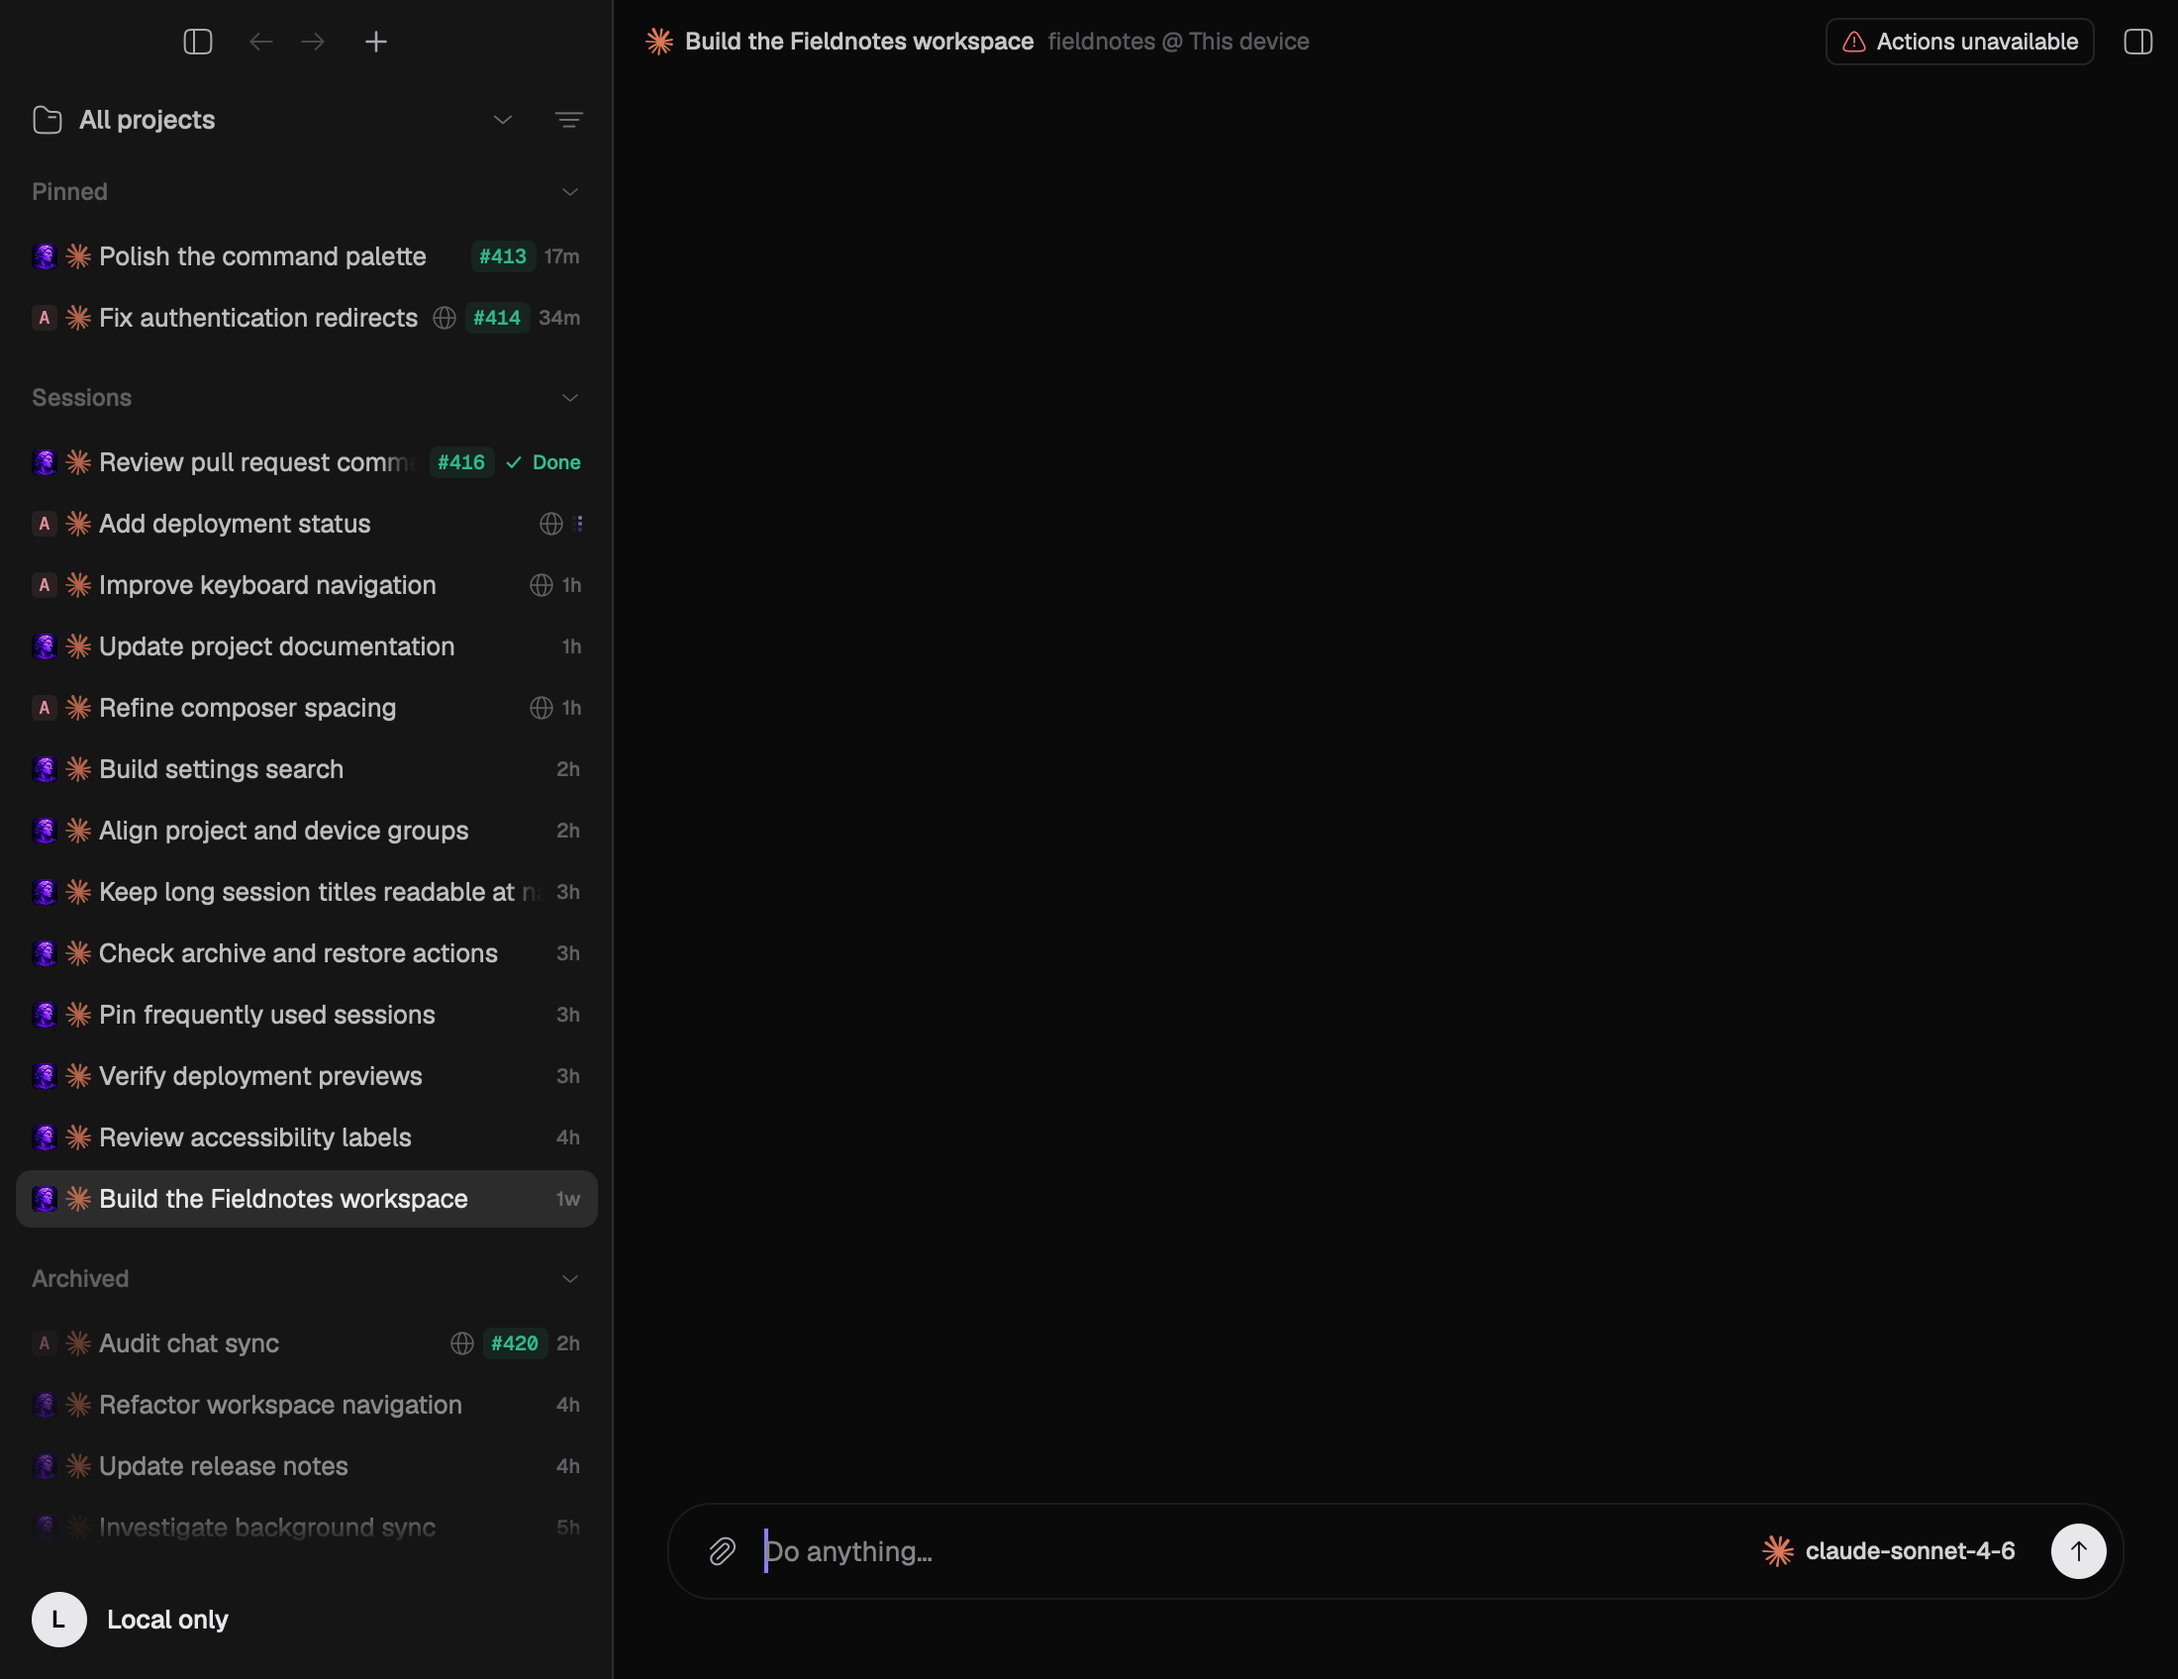
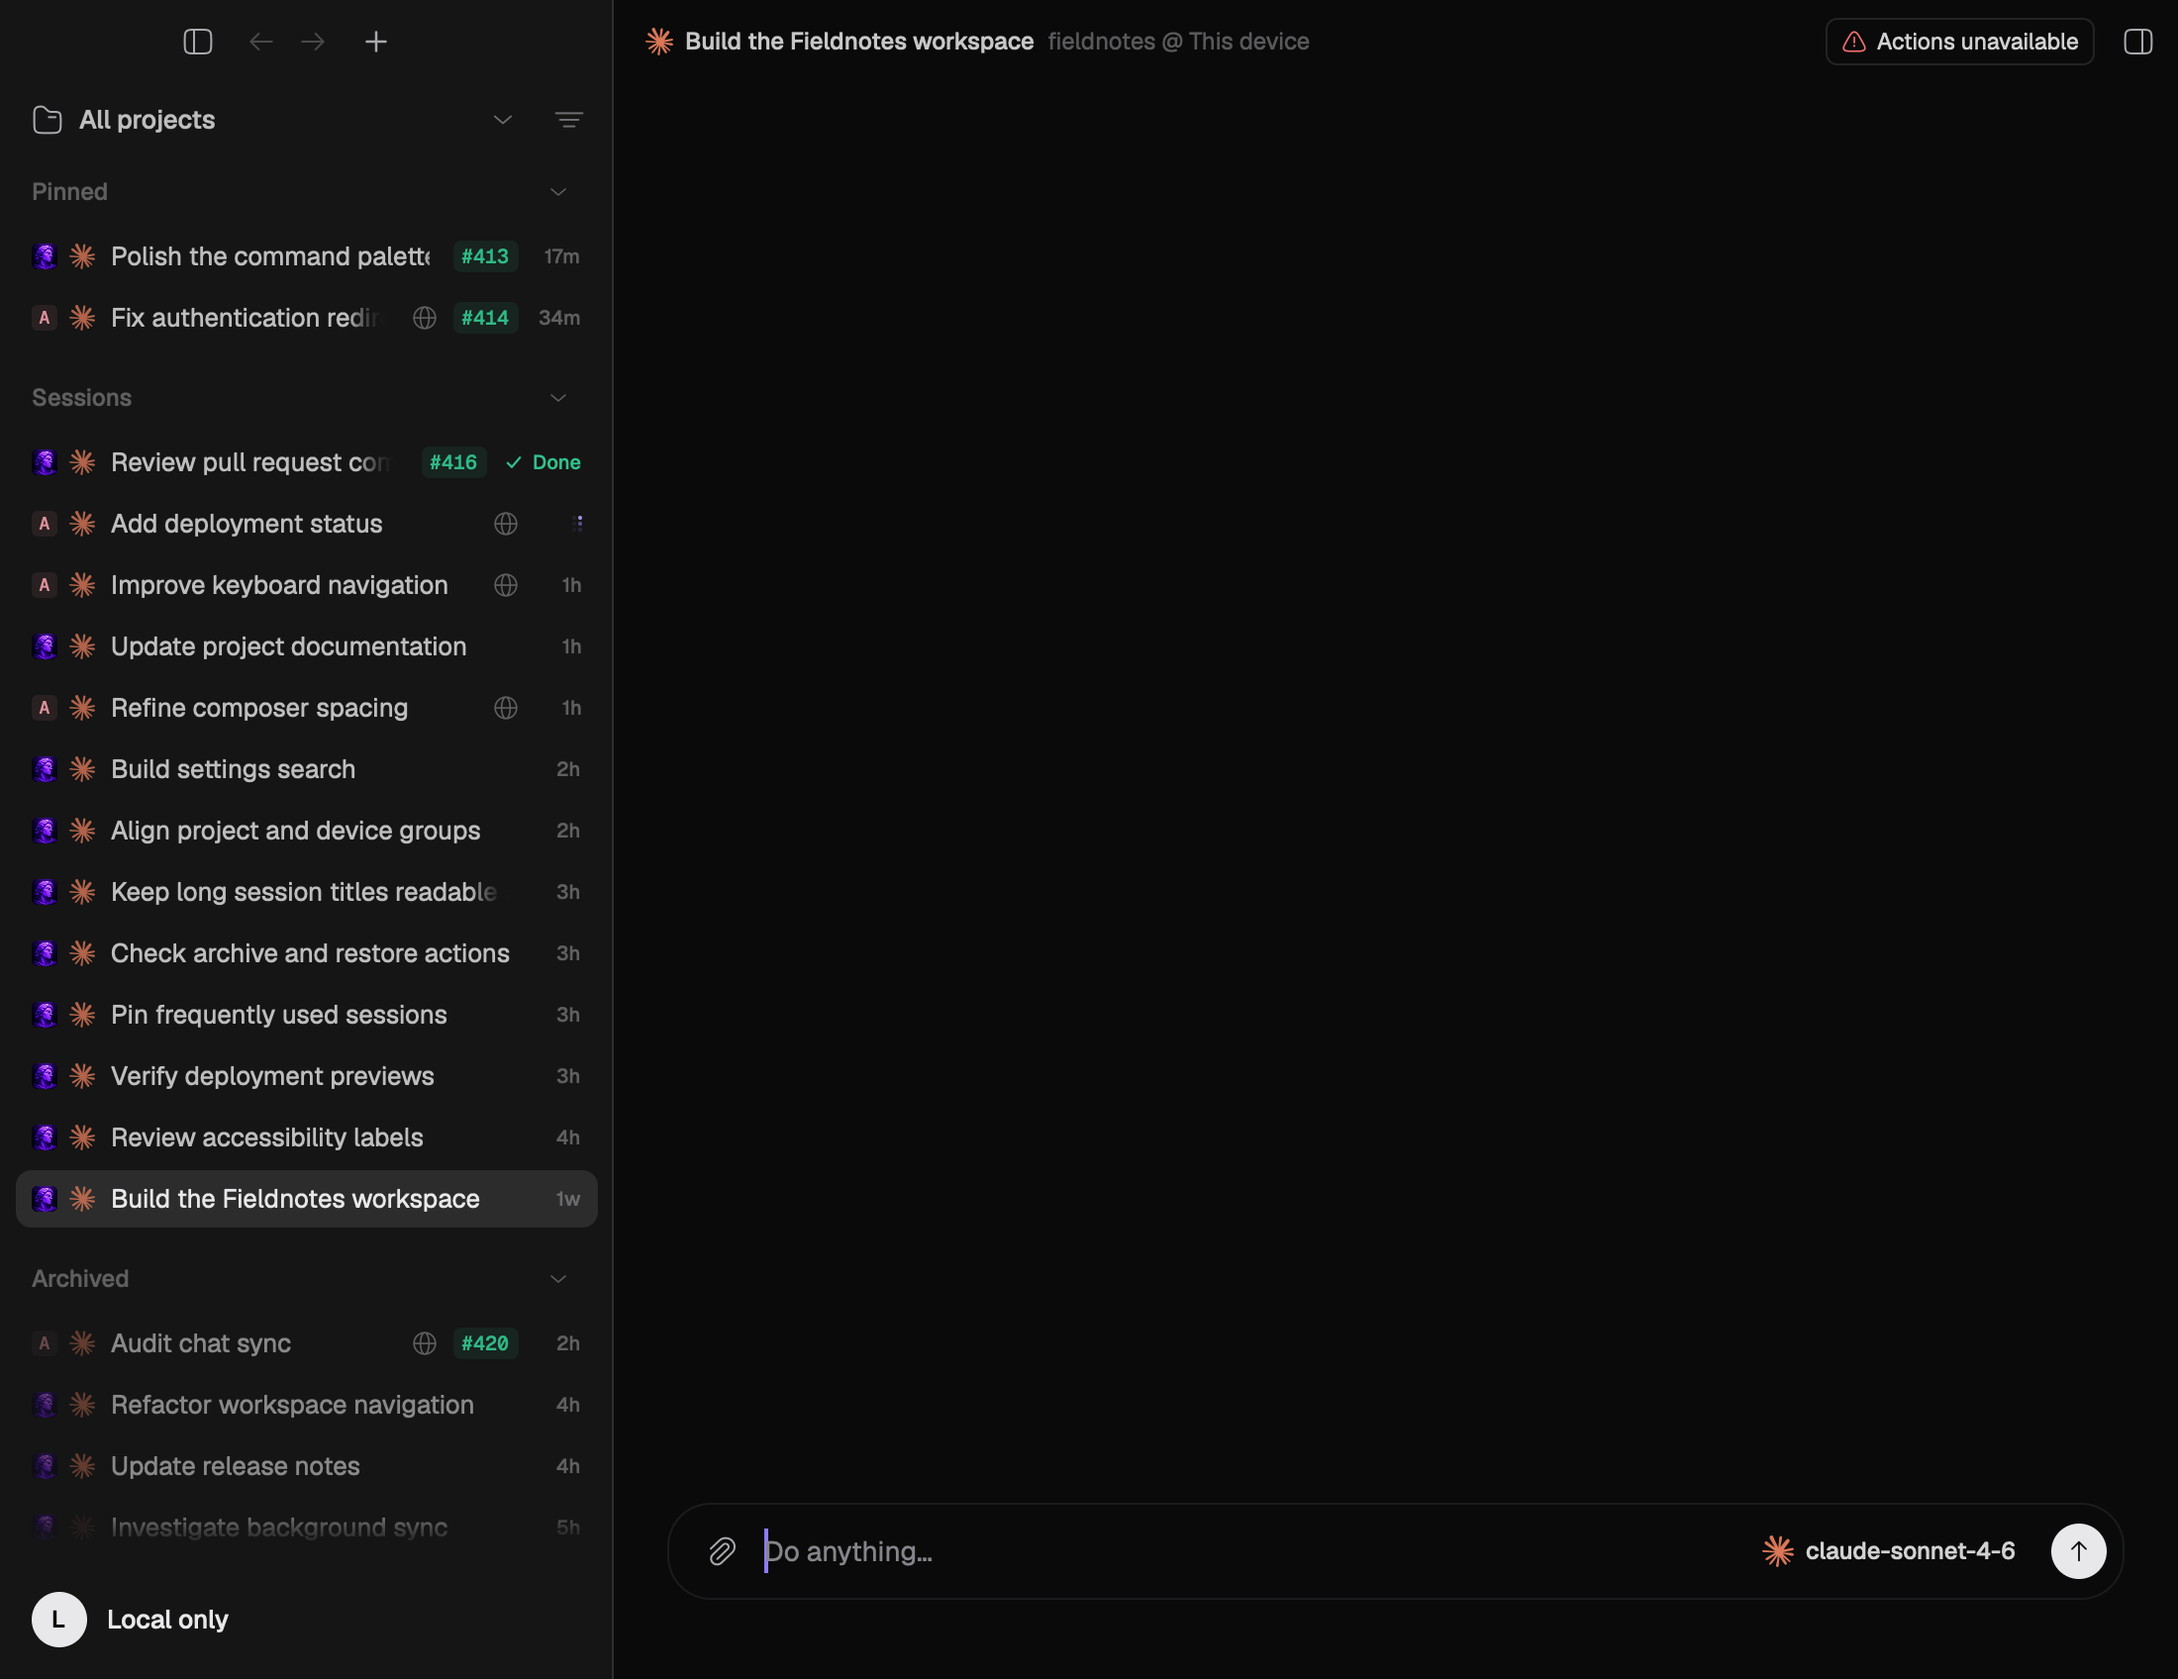
Refresh sidebar grouping and spacing evidence

diff --git a/README.md b/README.md
@@ -1,11 +1,13 @@
 # Sidebar fixture evidence
 
-Source: `f5c6a0dcc8c0dab7af1d0a2e4d15b22d8b40e5ca` on `sidebar-spacing`.
+Source `e84f0415e7f3e63e627fd2868b10b2d644e58731`, sidebar-spacing branch, clean source matching the captured build.
 
[2 lines of base64/hex data omitted]
 
[1 lines of base64/hex data omitted]
+Website custom icon: https://zeron.sh/assets/zeron-favicon-v3.png, applied to Fieldnotes. Remote project uses its monogram.
 
-Run with `ZERON_SIDEBAR_COMPACT=1 ZERON_SIDEBAR_PROJECT_ICON=/path/to/zeron-favicon-v3.png ZERON_SIDEBAR_CAPTURE_DIR=/tmp/sidebar-captures`; add `ZERON_PALETTE_LIGHT=1` for light. The fixture seeds the persisted override in isolated temporary data, IPC port 0. Native GPUI renderer readbacks, 21 synthetic sessions. OS decorations/backdrop are excluded; static images do not validate motion. Original before-collapsed image retained unchanged; its window size differs.
+Capture with `ZERON_SIDEBAR_COMPACT=1 ZERON_SIDEBAR_PROJECT_ICON=/path/to/zeron-favicon-v3.png ZERON_SIDEBAR_CAPTURE_DIR=/tmp/sidebar-captures`; add `ZERON_PALETTE_LIGHT=1` for light, omit COMPACT for expanded. Isolated temporary data, IPC 0, 21 synthetic sessions.
 
-Inspected dark rows and changed-icon menu, plus light project grouping. Fixture build and diff checks pass; production logic unchanged from 4215ad40 (124 shell tests and settings round-trip passed there).
+Inspected dark compact normal/hover, light project grouping and dark expanded rows. New grouping: 6px identity-icon gap, 8px identity-to-title, 12px title-to-metadata, 8px metadata gaps, 24px minimum trailing slot, 24px action targets with 4px gap. Disclosure chevrons centered in matching 24px slot.
+
+Validation: 124 shell tests pass, fixture build and scoped formatting/diff checks pass. GPUI readbacks exclude OS decorations/backdrop and do not prove animation smoothness. Original before image is unchanged and has different window dimensions.
